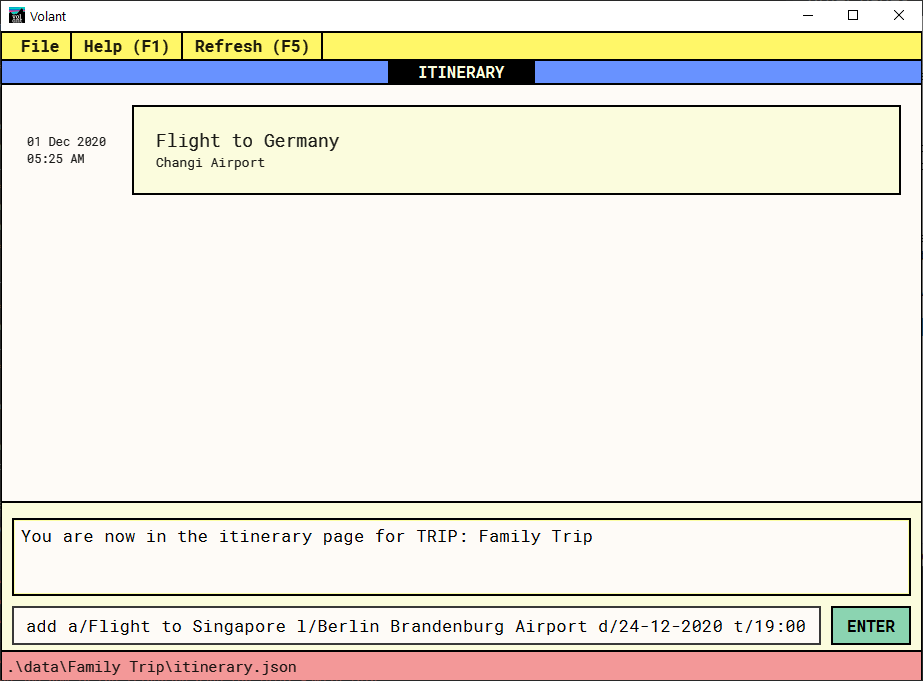
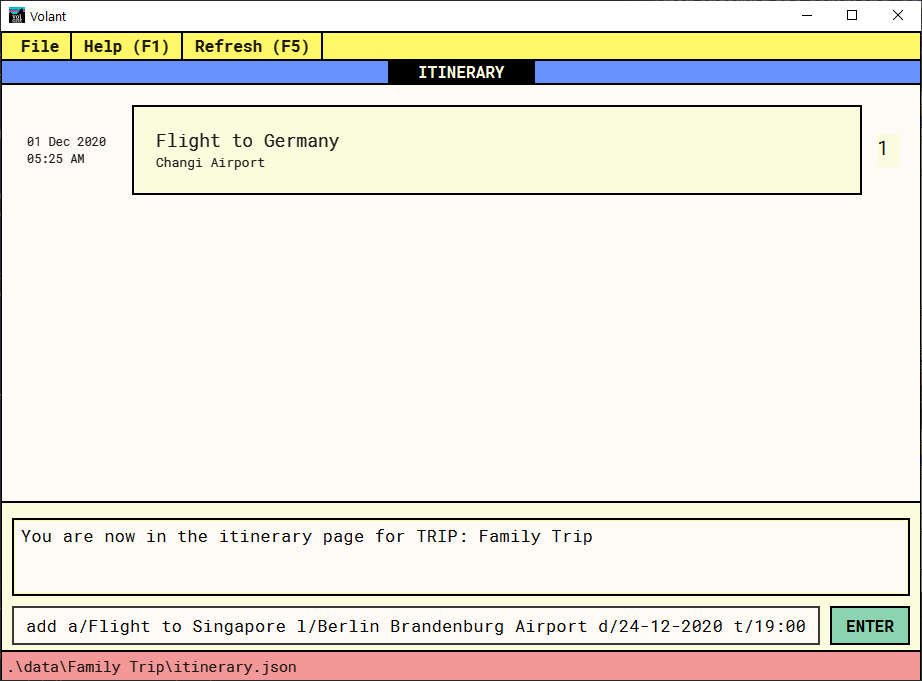
Update screenshots

diff --git a/src/main/java/seedu/volant/ui/pages/itinerary/ItineraryPageCard.java b/src/main/java/seedu/volant/ui/pages/itinerary/ItineraryPageCard.java
@@ -34,10 +34,14 @@ public class ItineraryPageCard extends UiPart<Region> {
     @FXML
     private Label activityLocation;
 
+    @FXML
+    private Label activityIndex;
 
-    public ItineraryPageCard(Activity activity) {
+
+    public ItineraryPageCard(Activity activity, int displayedIndex) {
         super(FXML);
         this.activity = activity;
+        activityIndex.setText(Integer.toString(displayedIndex));
         activityTitle.setText(activity.getTitle().toString());
         activityDate.setText(formatDate(activity.getDate()));
         activityTime.setText(formatTime(activity.getTime()));

diff --git a/src/main/java/seedu/volant/ui/pages/itinerary/ItineraryPage.java b/src/main/java/seedu/volant/ui/pages/itinerary/ItineraryPage.java
@@ -49,7 +49,7 @@ public class ItineraryPage extends UiPart<Region> {
                 setGraphic(null);
                 setText(null);
             } else {
-                setGraphic(new ItineraryPageCard(activity).getRoot());
+                setGraphic(new ItineraryPageCard(activity, getIndex() + 1).getRoot());
             }
         }
     }
